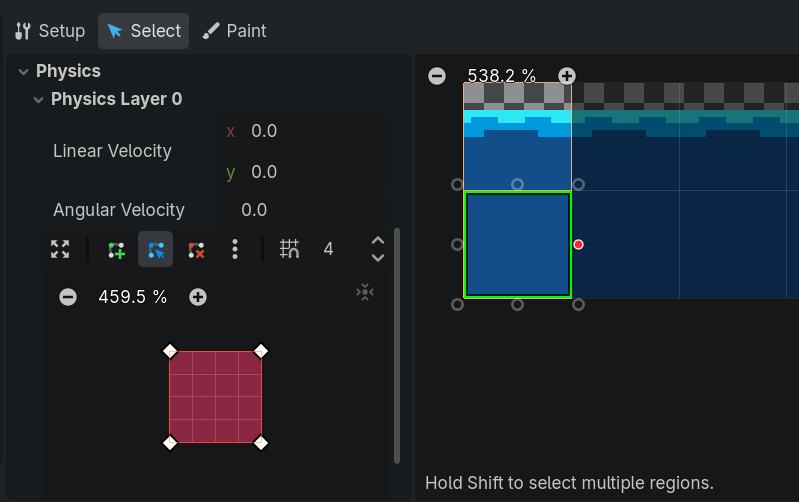
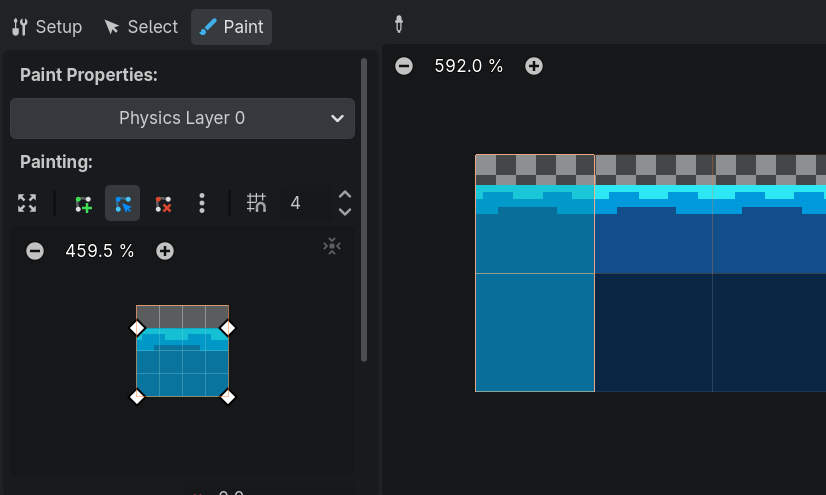
finished movement modules

diff --git a/2026/movement/swimming2.html b/2026/movement/swimming2.html
@@ -1,0 +1,211 @@
+<!DOCTYPE html>
+<html>
+<head>
+	<title>Swimming: Part 2</title>
+	<base href="../">
+	<link rel="shortcut icon" type="image/png" href="favicon.png">
+	<div id="head-placeholder"></div>
+	<script src="https://ajax.googleapis.com/ajax/libs/jquery/3.7.1/jquery.min.js"></script>
+	<script src="js/script.js"></script>
+	<script src="https://cdn.jsdelivr.net/npm/bootstrap@5.3.3/dist/js/bootstrap.bundle.min.js" integrity="sha384-YvpcrYf0tY3lHB60NNkmXc5s9fDVZLESaAA55NDzOxhy9GkcIdslK1eN7N6jIeHz" crossorigin="anonymous"></script>
+	<script>
+		$(function() {
+			$('#head-placeholder').load('navigation/head_content.html');
+			$('#topbar').load('navigation/topbar.html');
+			$('#sidebar').load('navigation/sidebar.html');
+			$('#bottombar').load('navigation/bottombar.html');
+		});
+	</script>
+	<script src="//cdnjs.cloudflare.com/ajax/libs/highlight.js/11.0.1/highlight.min.js"></script>
+	<!-- Syntax highlighting for GDScript. -->
+	<script>hljs.registerLanguage("gdscript",function(){"use strict";var e=e||{};function r(e){return{aliases:["godot","gdscript"],keywords:{keyword:"and in not or self void as assert breakpoint class class_name extends is func setget signal tool yield const enum export onready static var break continue if elif else for pass return match while remote sync master puppet remotesync mastersync puppetsync",built_in:"Color8 ColorN abs acos asin atan atan2 bytes2var cartesian2polar ceil char clamp convert cos cosh db2linear decimals dectime deg2rad dict2inst ease exp floor fmod fposmod funcref get_stack hash inst2dict instance_from_id inverse_lerp is_equal_approx is_inf is_instance_valid is_nan is_zero_approx len lerp lerp_angle linear2db load log max min move_toward nearest_po2 ord parse_json polar2cartesian posmod pow preload print_stack push_error push_warning rad2deg rand_range rand_seed randf randi randomize range_lerp round seed sign sin sinh smoothstep sqrt step_decimals stepify str str2var tan tanh to_json type_exists typeof validate_json var2bytes var2str weakref wrapf wrapi bool int float String NodePath Vector2 Rect2 Transform2D Vector3 Rect3 Plane Quat Basis Transform Color RID Object NodePath Dictionary Array PoolByteArray PoolIntArray PoolRealArray PoolStringArray PoolVector2Array PoolVector3Array PoolColorArray",literal:"true false null"},contains:[e.NUMBER_MODE,e.HASH_COMMENT_MODE,{className:"comment",begin:/"""/,end:/"""/},e.QUOTE_STRING_MODE,{variants:[{className:"function",beginKeywords:"func"},{className:"class",beginKeywords:"class"}],end:/:/,contains:[e.UNDERSCORE_TITLE_MODE]}]}}return e.exports=function(e){e.registerLanguage("gdscript",r)},e.exports.definer=r,e.exports.definer||e.exports}());</script>
+	<script>hljs.highlightAll();</script>
+</head>
+<body>
+<div class="container-fluid">
+	<div class="row">
+		<div class="col-12" id="topbar">
+		</div>
+	</div>
+	<div class="row">
+		<div class="col-lg-3 col-md-4 bg-dark">
+			<nav class="navbar" id="sidebar">
+			</nav>
+		</div>
+
+		<!-- Content -->
+		<div class="col-lg-9 col-md-8 content">
+			<h3>Swimming (Part 2)</h3>
+			<p>In this module we will add the ability for our player to swim in water!</p>
+
+			<h4>Getting the New Assets</h4>
+			<p>Before adding any functionality lets get the new sprites. Go ahead and open up the Swimming folder in your VGDC Assets folder, find the appropriate files and drag them into your file system.</p>
+			<p class="hint add-info">If you are not taking this course in person, you can download the assets <a href="https://drive.google.com/drive/folders/1p7nq1mwo_H3OeOks60P1RyR8Yosre2sC?usp=sharing" target="_blank">Here<i class="linkbox bi bi-box-arrow-up-right"></i></a></p>
+			<p>Now we need to add a couple new animations to our player's sprite frames. Navigate to your player scene's AnimatedSprite2D node, then it's sprite frame. We will create three new animations: swim, swim_idle and swim_up, importing the appropriate files as sprite frames.</p>
+			<img src="movement/images/swim_sprite_frames.png" class="img-fluid">
+			<p class="hint tip">I set my swim animation speed to 5, my swim_idle speed to 4 and swim_up to 7. You can go ahead and change it to what you want, I just did what I thought looked good.</p>
+
+			<h4>Checking for Water</h4>
+			<p>Next we want a way for the player to detect when they are in water. In the player scene create a new Area2D node and name it WaterCheck, then create a new CollisionShape2D node as a child of it.</p>
+			<img src="movement/images/swim_scene_tree.png" class="img-fluid">
+			<p>Now select the new CollisionShape2D and in the inspector create a new RectangeShape. Edit it in the viewport to the proper shape and size.</p>
+			<img src="movement/images/water_check_collision.png" class="img-fluid">
+			<p class="hint tip">I made my WaterCheck shape cover only the top portion of my character. I did this because I think it looks nicer when the player doesn't start swimming immediately when touching a single pixel of water, though note this does make it harder to leave the water.</p>
+			<p>Next, select WaterCheck and in the inspector, navigate to the collision section. Disable its layers and set its masks to Water only.</p>
+			<img src="movement/images/water_check_physics_layers.png" class="img-fluid">
+			<p>Finally, we want to connect the WaterCheck node to our player script. While still in the inspector for WaterCheck, go to the signals tab. We want to connect both the body_entered and body_exited signals (you can keep the default function names).</p>
+			<img src="movement/images/water_check_signals.png" class="img-fluid">
+
+			<h4>Editing the Player Script</h4>
+			<p>We have a lot going on here, so stay with me. First we will want to add <strong>7</strong> new variables to our player: swim_speed, swim_acceleration, swim_friction, swim_jump_velocity, swim_gravity, swim_terminal_velocity and in_water.</p>
+			<div><button class="copy-code-btn btn" onclick="copyCode(this);"><i class="bi bi-clipboard"></i></button>
+			<pre><code class="language-gdscript"># Player Stats
+@export var speed = 100.0
+@export var acceleration = 800.0
+@export var friction = 1200.0
+@export var jump_velocity = -300.0
+@export var gravity = 980.0
+@export var terminal_velocity = 500.0
+@export var swim_speed = 65.0
+@export var swim_acceleration = 400.0
+@export var swim_friction = 600.0
+@export var swim_jump_velocity = -150.0
+@export var swim_gravity = 300.0
+@export var swim_terminal_velocity = 75.0
+
+# Reference Variables
+@onready var sprite = $AnimatedSprite2D
+var in_water = false</code></pre></div>
+			<p class="hint tip">We are pretty much adding an alternative value for every movement stat we have. I chose these values based on what felt good to me, but feel free to mess around with them!</p>
+			<p>Now let's start applying our swim stats one function at a time, starting in apply_gravity. We will want to be able to switch between our two gravities and terminal velocities based on if we are in water, like so:</p>
+			<div><button class="copy-code-btn btn" onclick="copyCode(this);"><i class="bi bi-clipboard"></i></button>
+			<pre><code class="language-gdscript">func apply_gravity(delta):
+	# Set Terminal Velocity
+	var current_terminal_velocity
+	if in_water:
+		current_terminal_velocity = swim_terminal_velocity
+	else:
+		current_terminal_velocity = terminal_velocity
+	
+	# Set Gravity
+	var current_gravity
+	if in_water:
+		current_gravity = swim_gravity
+	else:
+		current_gravity = gravity
+	
+	if not is_on_floor():
+		velocity.y += current_gravity * delta
+		velocity.y = min(velocity.y,current_terminal_velocity)</code></pre></div>
+			<p>Next, handle_jump. Unlike gravity, we aren't just changing between two variables, but actually need to modify our jumping statement. Specifically we will need to pull our is_on_floor check and put it inside of the statement, returning out of it if we are in the air and not in water. This will allow the player to jump (aka swim) in water without needing to touch the floor!</p>
+			<div><button class="copy-code-btn btn" onclick="copyCode(this);"><i class="bi bi-clipboard"></i></button>
+			<pre><code class="language-gdscript">func handle_jump():
+	# Set Jump Velocity
+	var current_jump_velocity
+	if in_water:
+		current_jump_velocity = swim_jump_velocity
+	else:
+		current_jump_velocity = jump_velocity
+	
+	# Jumping
+	if Input.is_action_just_pressed("Jump"):
+		# Swimming
+		if not is_on_floor() and not in_water:
+			return
+		
+		velocity.y = current_jump_velocity</code></pre></div>
+			<p>Now apply_acceleration, where we modify our speed and acceleration:</p>
+			<div><button class="copy-code-btn btn" onclick="copyCode(this);"><i class="bi bi-clipboard"></i></button>
+			<pre><code class="language-gdscript">func apply_acceleration(input_axis,delta):
+	# Set Speed
+	var current_speed
+	if in_water:
+		current_speed = swim_speed
+	else:
+		current_speed = speed
+	
+	# Set Acceleration
+	var current_acceleration
+	if in_water:
+		current_acceleration = swim_acceleration
+	else:
+		current_acceleration = acceleration
+	
+	if input_axis:
+		velocity.x = move_toward(velocity.x, current_speed * input_axis, current_acceleration * delta)</code></pre></div>
+			<p>And finally apply_friction, with only friction to deal with.</p>
+			<div><button class="copy-code-btn btn" onclick="copyCode(this);"><i class="bi bi-clipboard"></i></button>
+			<pre><code class="language-gdscript">func apply_friction(input_axis,delta):
+	# Set Friction
+	var current_friction
+	if in_water:
+		current_friction = swim_friction
+	else:
+		current_friction = friction
+	
+	if not input_axis:
+		velocity.x = move_toward(velocity.x, 0, current_friction * delta)</code></pre></div>
+			<p class="hint alert">Note that each of these functions have the current versions of each variable being applied at the bottom!</p>
+		 	<p>As you can tell, there is a lot of changes in order to swim, but we aren't done yet. Let's make sure our animations are properly working! In the update_animations function we will add a section above Grounded Animations for our swimming animations. We want swim_up to play while moving upwards, swim while moving, and idle otherwise. We also want our swimming animations to override the regular ones, so we will return out of the function afterwards:</p>
+			<div><button class="copy-code-btn btn" onclick="copyCode(this);"><i class="bi bi-clipboard"></i></button>
+			<pre><code class="language-gdscript">func update_animations(input_axis):
+	# Update Sprite Direction
+	if input_axis: sprite.flip_h = input_axis < 0
+	
+	# Swimming Animations
+	if in_water:
+		if velocity.y < 0.0:
+			sprite.play("swim_up")
+		elif input_axis:
+			sprite.play("swim")
+		else:
+			sprite.play("swim_idle")
+		return
+	
+	# Grounded Animations
+	if input_axis:
+		sprite.play("walk")
+	else:
+		sprite.play("idle")
+	
+	# Aerial Animations
+	if not is_on_floor():
+		if velocity.y <= 0:
+			sprite.play("jump")
+		else:
+			sprite.play("fall")</code></pre></div>
+			<p>We are so close to being done! We just need to actually update the in_water variable we have been calling! We can do this easily by setting in_water to true in the _on_water_check_body_entered function and false in the _on_water_check_body_exited function (the two functions created when we connected the WaterCheck's signals earlier).</p>
+			<div><button class="copy-code-btn btn" onclick="copyCode(this);"><i class="bi bi-clipboard"></i></button>
+			<pre><code class="language-gdscript">func _on_water_check_body_entered(_body):
+	in_water = true
+
+func _on_water_check_body_exited(_body):
+	in_water = false</code></pre></div>
+			<p>And you're done! Go ahead and try out swimming and move on to another module!</p>
+
+			<h3>Compatibility</h3>
+			<p>Swimming conflicts with 7 other modules:</p>
+			<ol>
+				<li><h5>Aerial Mobility</h5></li>
+				<li><h5>Crouching</h5></li>
+				<li><h5>Double Jump</h5></li>
+				<li><h5>Short Hop</h5></li>
+				<li><h5>Sprinting</h5></li>
+				<li><h5>Wall Jump</h5></li>
+				<li><h5>Wall Cling</h5></li>
+			</ol>
+			<p>Due to the fact this module is already long enough (and has a lot of conflicts), you can go to each of these modules' pages to see how to fix the compatability issues.</p>
+		</div>
+	</div>
+	<div class="row">
+		<div class="col-12" id="bottombar">
+		</div>
+	</div>
+</div>
+<script>
+	function triggerExpand() {
+		expandAndHighlight('Movement','Swimming2','movementToggle')
+	}
+</script>
+</body>
+</html>

diff --git a/2026/movement/swimming1.html b/2026/movement/swimming1.html
@@ -1,0 +1,83 @@
+<!DOCTYPE html>
+<html>
+<head>
+	<title>Swimming: Part 1</title>
+	<base href="../">
+	<link rel="shortcut icon" type="image/png" href="favicon.png">
+	<div id="head-placeholder"></div>
+	<script src="https://ajax.googleapis.com/ajax/libs/jquery/3.7.1/jquery.min.js"></script>
+	<script src="js/script.js"></script>
+	<script src="https://cdn.jsdelivr.net/npm/bootstrap@5.3.3/dist/js/bootstrap.bundle.min.js" integrity="sha384-YvpcrYf0tY3lHB60NNkmXc5s9fDVZLESaAA55NDzOxhy9GkcIdslK1eN7N6jIeHz" crossorigin="anonymous"></script>
+	<script>
+		$(function() {
+			$('#head-placeholder').load('navigation/head_content.html');
+			$('#topbar').load('navigation/topbar.html');
+			$('#sidebar').load('navigation/sidebar.html');
+			$('#bottombar').load('navigation/bottombar.html');
+		});
+	</script>
+	<script src="//cdnjs.cloudflare.com/ajax/libs/highlight.js/11.0.1/highlight.min.js"></script>
+	<!-- Syntax highlighting for GDScript. -->
+	<script>hljs.registerLanguage("gdscript",function(){"use strict";var e=e||{};function r(e){return{aliases:["godot","gdscript"],keywords:{keyword:"and in not or self void as assert breakpoint class class_name extends is func setget signal tool yield const enum export onready static var break continue if elif else for pass return match while remote sync master puppet remotesync mastersync puppetsync",built_in:"Color8 ColorN abs acos asin atan atan2 bytes2var cartesian2polar ceil char clamp convert cos cosh db2linear decimals dectime deg2rad dict2inst ease exp floor fmod fposmod funcref get_stack hash inst2dict instance_from_id inverse_lerp is_equal_approx is_inf is_instance_valid is_nan is_zero_approx len lerp lerp_angle linear2db load log max min move_toward nearest_po2 ord parse_json polar2cartesian posmod pow preload print_stack push_error push_warning rad2deg rand_range rand_seed randf randi randomize range_lerp round seed sign sin sinh smoothstep sqrt step_decimals stepify str str2var tan tanh to_json type_exists typeof validate_json var2bytes var2str weakref wrapf wrapi bool int float String NodePath Vector2 Rect2 Transform2D Vector3 Rect3 Plane Quat Basis Transform Color RID Object NodePath Dictionary Array PoolByteArray PoolIntArray PoolRealArray PoolStringArray PoolVector2Array PoolVector3Array PoolColorArray",literal:"true false null"},contains:[e.NUMBER_MODE,e.HASH_COMMENT_MODE,{className:"comment",begin:/"""/,end:/"""/},e.QUOTE_STRING_MODE,{variants:[{className:"function",beginKeywords:"func"},{className:"class",beginKeywords:"class"}],end:/:/,contains:[e.UNDERSCORE_TITLE_MODE]}]}}return e.exports=function(e){e.registerLanguage("gdscript",r)},e.exports.definer=r,e.exports.definer||e.exports}());</script>
+	<script>hljs.highlightAll();</script>
+</head>
+<body>
+<div class="container-fluid">
+	<div class="row">
+		<div class="col-12" id="topbar">
+		</div>
+	</div>
+	<div class="row">
+		<div class="col-lg-3 col-md-4 bg-dark">
+			<nav class="navbar" id="sidebar">
+			</nav>
+		</div>
+
+		<!-- Content -->
+		<div class="col-lg-9 col-md-8 content">
+			<h3>Swimming (Part 1)</h3>
+			<p>In this module we will set up the water required for swimming!</p>
+
+			<h4>Getting the New Assets</h4>
+			<p>First we need to import our water sprite. Go ahead and open up the Swimming folder in your VGDC Assets folder, find the Water Tile.png and drag it into your file system.</p>
+			<p class="hint add-info">If you are not taking this course in person, you can download the assets <a href="https://drive.google.com/drive/folders/1p7nq1mwo_H3OeOks60P1RyR8Yosre2sC?usp=sharing" target="_blank">Here<i class="linkbox bi bi-box-arrow-up-right"></i></a></p>
+
+			<h4>Creating the WaterTiles</h4>
+			<p>Now we want to set up a new Water physics layer. Navigate to your project settings and in the 2D Physics section set Layer 5's name to Water.</p>
+			<img src="movement/images/water_physics_layer.png" class="img-fluid">
+			<p>Next, navigate to your world scene and add a new TileMapLayer node. You want to name this node WaterTiles and make sure it is above your GroundTiles like so:</p>
+			<img src="movement/images/water_scene_tree.png" class="img-fluid">
+			<p>With the WaterTiles node selected, go to the inspector and create a new TileSet, then while still in the inspector, select the new TileSet and change it's physics layers to just water and its masks to be empty:</p>
+			<img src="movement/images/water_physics_layers.png" class="img-fluid">
+			<p>Now in the bottom bar select the TileSet tab and click the plus sign beneath the dark box. Select atlas, then navigate to your water tile sprite you imported and open it. A popup will appear asking if you would like to automatically create tiles. Select no (If you accidently select yes you can right click the tiles and delete them.) Instead name the tiles Water and select the two left-most tiles.</p>
+			<img src="movement/images/water_tile.png" class="img-fluid">
+			<p>Next, go to the paint tab, and select the physics layer 0 property in the paint properties dropdown. You can immediately click the lower tile, but for the top one we will need to change the collision shape. We can do this by Moving the points of the shape shown then clicking the upper tile (you can select the grid icon with the magnet to enable snapping for a more accurate shape).</p>
+			<img src="movement/images/water_collision.png" class="img-fluid">
+
+			<h4>Animating the Water</h4>
+			<p>The water can now be placed, but it is far to still to look good. Fortunately, the sprite we imported includes an animation for the water. To get started, go to the select tab and select the top water tile. Under the animation section we need to do 3 things:</p>
+			<ol>
+				<li>Set the Columns property to 16.</li>
+				<li>Set the Speed property to 10.</li>
+				<li>Under frames, keep adding elements until the entire top row is highlighted.</li>
+			</ol>
+			<img src="movement/images/water_animation.png" class="img-fluid">
+
+			<p>And that is the water complete! Go ahead and place some in your level then move on to the next part where we add the player's ability to swim!</p>
+			<div class="text-center">
+				<a href="movement/swimming2.html" class="btn col-lg-4 col-md-6 col-12">Next</a>
+			</div>
+		</div>
+	</div>
+	<div class="row">
+		<div class="col-12" id="bottombar">
+		</div>
+	</div>
+</div>
+<script>
+	function triggerExpand() {
+		expandAndHighlight('Movement','Swimming1','movementToggle')
+	}
+</script>
+</body>
+</html>

diff --git a/2026/navigation/sidebar.html b/2026/navigation/sidebar.html
@@ -37,7 +37,8 @@
 				<li><a class="nav-link" id="ShortHop" href="movement/short_hop.html">Short Hop</a></li>
 				<li><a class="nav-link" id="Slopes" href="movement/slopes.html">Slopes</a></li>
 				<li><a class="nav-link" id="Sprint" href="movement/sprinting.html">Sprinting</a></li>
-				<li><a class="nav-link" id="Swimming" href="movement/swimming.html">Swimming <sup class="new-tag">New!</sup></a></li>
+				<li><a class="nav-link" id="Swimming1" href="movement/swimming1.html">Swimming (Part 1)<sup class="new-tag">New!</sup></a></li>
+				<li><a class="nav-link" id="Swimming2" href="movement/swimming2.html">Swimming (Part 2)<sup class="new-tag">New!</sup></a></li>
 				<li><a class="nav-link" id="WallJump" href="movement/wall_jump.html">Wall Jump</a></li>
 				<li><a class="nav-link" id="WallCling" href="movement/wall_cling.html">Wall Cling</a></li>
 				<li><a class="nav-link" id="WallCoyoteTime" href="movement/wall_coyote_time.html">Wall Coyote Time</a></li>

diff --git a/2026/whats_new.html b/2026/whats_new.html
@@ -45,9 +45,8 @@
 				<li><a href="hazards/bosses.html">Bosses</a>  <sup class="new-tag">New!</sup></a></li>
 				<li><a href="gameplay/character_select.html">Character Select</a>  <sup class="new-tag">New!</sup></a></li>
 				<li><a href="gameplay/couch_coop.html">Couch Co-op</a>  <sup class="new-tag">New!</sup></a></li>
-				<li><a href="movement/crouching.html">Crouching</a>  <sup class="new-tag">New!</sup></a></li>
 				<li><a href="visuals/level_select.html">Level Select</a>  <sup class="new-tag">New!</sup></a></li>
-				<li><a href="movement/swimming.html">Swimming</a>  <sup class="new-tag">New!</sup></a></li>
+				<li><a href="movement/swimming1.html">Swimming</a>  <sup class="new-tag">New!</sup></a></li>
 			</ul>
 
 			<h4>New and Updated Assets</h4>

diff --git a/2026/movement/crouching.html b/2026/movement/crouching.html
@@ -45,7 +45,7 @@
 			<p class="hint add-info">If you are not taking this course in person, you can download the assets <a href="https://drive.google.com/drive/folders/1p7nq1mwo_H3OeOks60P1RyR8Yosre2sC?usp=sharing" target="_blank">Here<i class="linkbox bi bi-box-arrow-up-right"></i></a></p>
 			<p>Now we need to add a new animation to our player's sprite frames. Navigate to your player scene's AnimatedSprite2D then it's sprite frame. We will create two new animations named crouch_idle and crouch_walk. Go ahead and import the new files as frames.</p>
 			<img src="movement/images/crouch_sprite_frames.png" class="img-fluid">
-			<p class="hint tip">I set my crouch_idle animation speed to 4 and my crouch_walk speed to 8 (80% of the regular speeds). You can go ahead and change it towhat you want, but I do recommend slower than your regular idle/walking.</p>
+			<p class="hint tip">I set my crouch_idle animation speed to 4 and my crouch_walk speed to 8 (80% of the regular speeds). You can go ahead and change it to what you want, but I do recommend slower than your regular idle/walking.</p>
 			
 			<h4>Adding the Input</h4>
 			<p>Next we must add a new input action for crouching. Go to your project settings then the input map tab. Create a new action called Down and add a key (I will use S and the down arrow as my down keys.)</p>